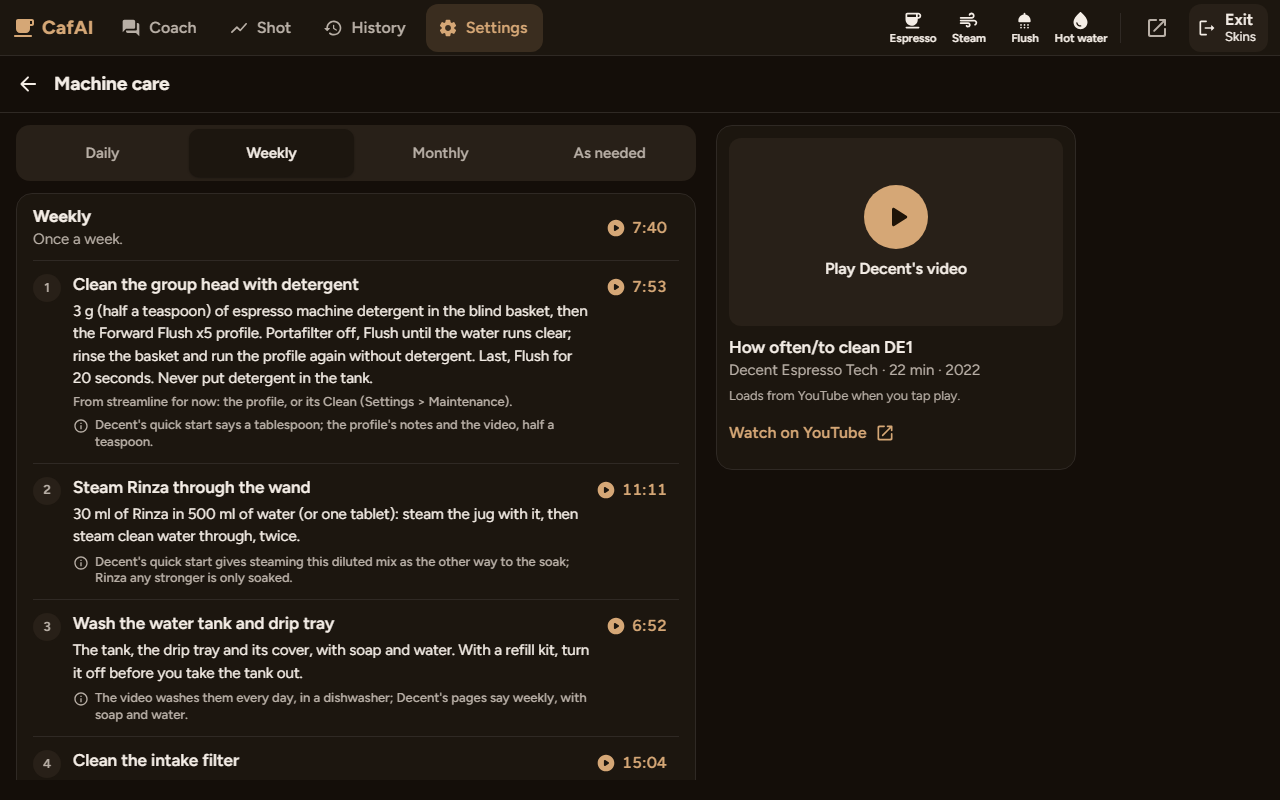
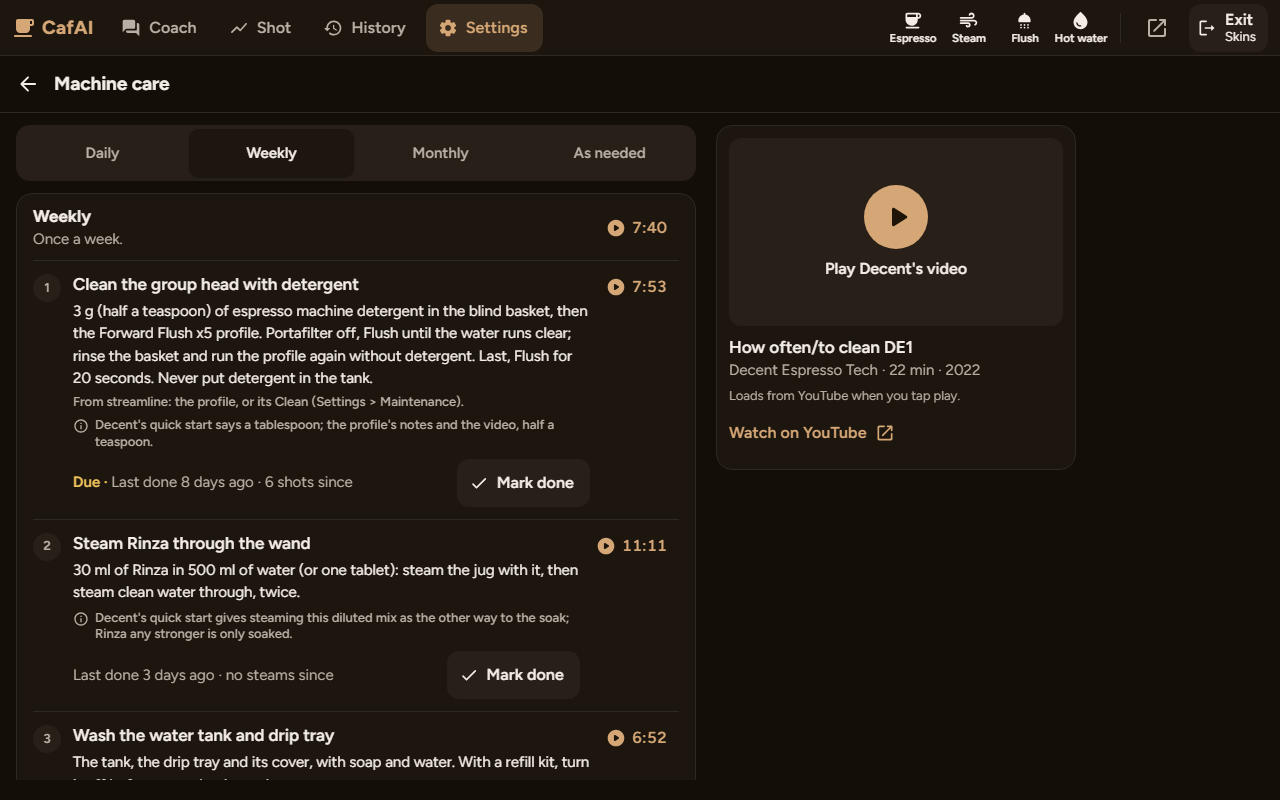
docs: the README's pictures retaken with the batch: the coach answering with the last shot's TDS, the previous shot faint under the shot graph, History's TDS and EY, Settings' temperatures and the weekly clean due on the Care screen

diff --git a/README.md b/README.md
@@ -15,7 +15,7 @@ tablet and a phone layout, and a look of your own. It follows the
 patterns of Decent's own skin, streamline.js, and began as a port of Crema's
 logic; see [Influences and thanks](#influences-and-thanks).
 
-![The coach on a 1280x800 tablet: the barista tapped "Sour / sharp", the coach read the pressure curve and proposes one change, 1 °C hotter, to confirm](docs/images/tablet-coach.png)
+![The coach on a 1280x800 tablet: the barista measured the last shot's TDS and tapped "Sour / sharp"; the coach gives the extraction it works out, reads the pressure curve and proposes one change, 1 °C hotter, to confirm](docs/images/tablet-coach.png)
 
 - Skin id: `cafai` (never changes; it fixes the skin's install folder, port
   and origin in Decaid, and so its saved data)
@@ -63,11 +63,11 @@ From the built-in demo (`npm run demo`, no machine needed);
 
 | The big shot graph, from a shot's card | History: every version, its change and its shots |
 |---|---|
-| ![The shot view on a tablet: pressure, flow, weight and weight flow over a 60 s Blooming Espresso shot](docs/images/tablet-shot.png) | ![History on a tablet: Kiambu AA's versions v4 (active), v3 (undone) and v2, each with its change and shots](docs/images/tablet-history.png) |
+| ![The shot view on a tablet: pressure, flow, weight and weight flow over a 60 s Blooming Espresso shot, the previous shot faint under it and named over the plot](docs/images/tablet-shot.png) | ![History on a tablet: Kiambu AA's versions v4 (active), v3 (undone) and v2, each with its change and shots, the last with its TDS and EY](docs/images/tablet-history.png) |
 | **Settings > Appearance: Light, in Matcha** | **On a phone: the coach and the shot** |
-| ![Settings on a tablet in the Light mode with the Matcha tint: the mode, seven tints and a custom hue](docs/images/tablet-settings.png) | <img src="docs/images/phone-coach.png" width="49%" alt="The coach on a phone, proposing one change"> <img src="docs/images/phone-shot.png" width="49%" alt="The shot graph on a phone"> |
+| ![Settings on a tablet in the Light mode with the Matcha tint: the mode, seven tints, a custom hue and the temperatures in °C or °F](docs/images/tablet-settings.png) | <img src="docs/images/phone-coach.png" width="49%" alt="The coach on a phone, proposing one change"> <img src="docs/images/phone-shot.png" width="49%" alt="The shot graph on a phone, the previous shot faint under it"> |
 | **Settings > Machine care: Decent's cleaning routine, by how often** | **Settings > Sleep and wake: warm at 06:30 on weekdays** |
-| ![Machine care on a tablet: the Weekly routine's steps, each with its time in Decent's video, beside the video's card](docs/images/tablet-care.png) | <img src="docs/images/phone-sleep-wake.png" width="49%" alt="Sleep and wake on a phone: Sleep when idle after 30 minutes, held off until 10:00 by a wake time, and two wake times, weekdays at 06:30 for an hour and weekends at 08:00 for two, with the next wake over them"> |
+| ![Machine care on a tablet: the Weekly routine's steps, each with its time in Decent's video, the detergent clean due with 6 shots since it was last done and Mark done, beside the video's card](docs/images/tablet-care.png) | <img src="docs/images/phone-sleep-wake.png" width="49%" alt="Sleep and wake on a phone: Sleep when idle after 30 minutes, held off until 10:00 by a wake time, and two wake times, weekdays at 06:30 for an hour and weekends at 08:00 for two, with the next wake over them"> |
 
 ## What you need
 
